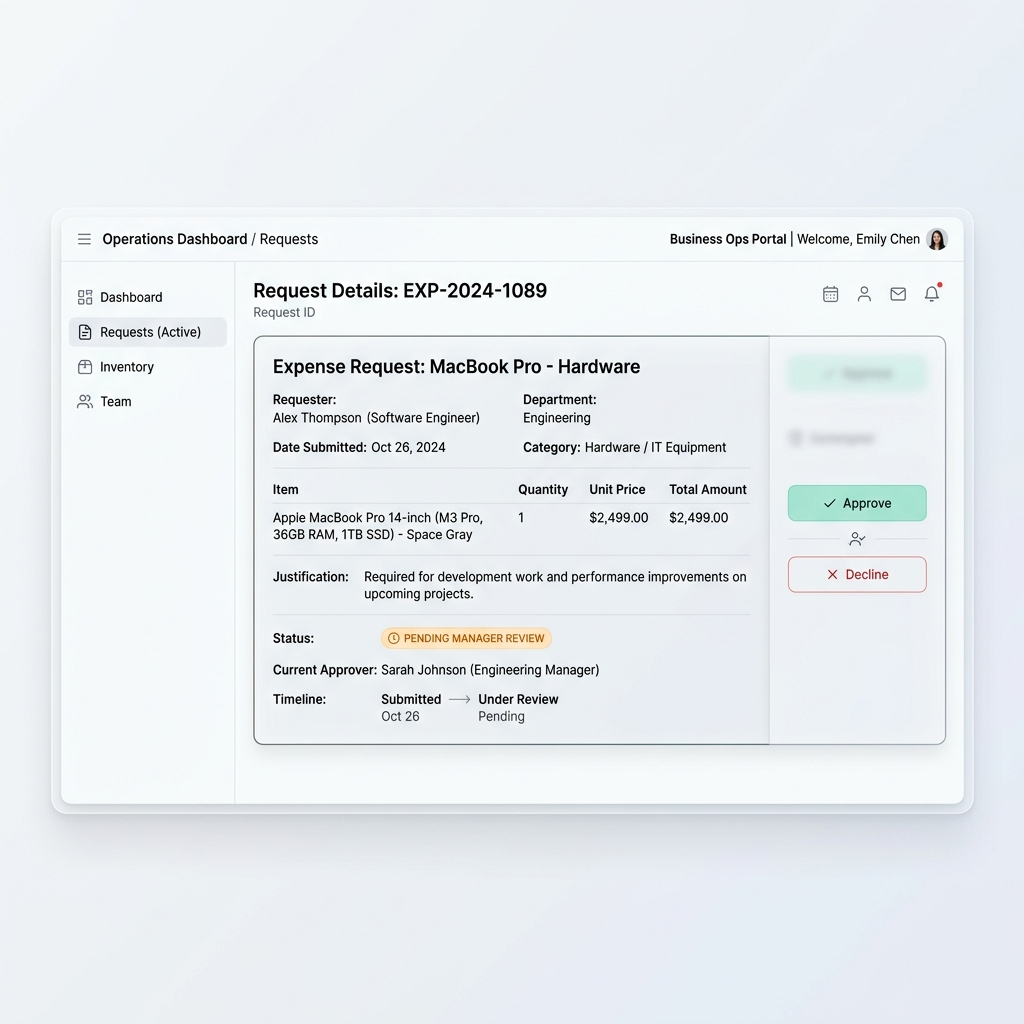
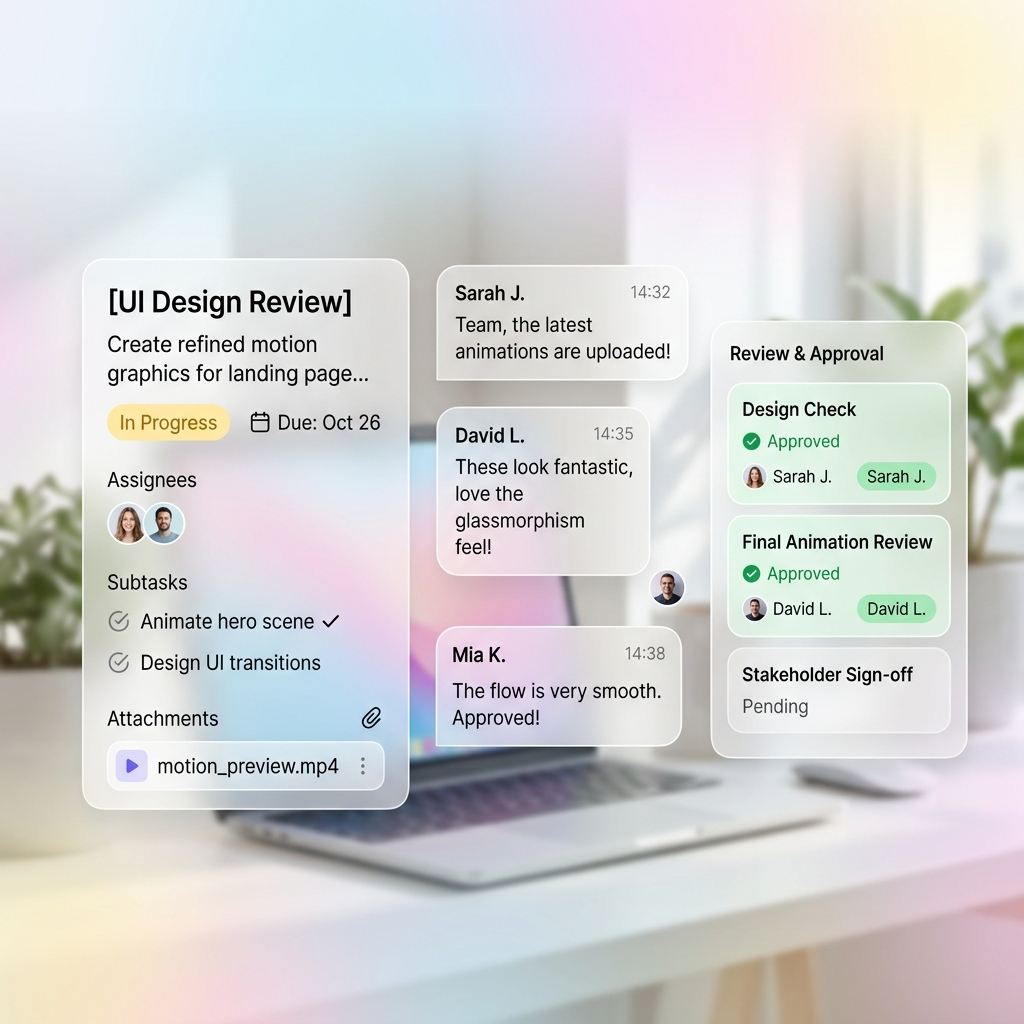
Optimize hero layout, replace mockups with premium glassmorphic mockups, and redesign trust bar to remove clutter

diff --git a/apps/landing-web/src/components/landing/TrustBar.tsx b/apps/landing-web/src/components/landing/TrustBar.tsx
@@ -1,31 +1,30 @@
-import { Rocket, Palette, Truck, Monitor, Factory, Settings } from 'lucide-react';
+import { Zap, Sparkles, Layers } from 'lucide-react';
 import { ScrollReveal } from './ScrollReveal';
 
-const industries = [
-  { icon: Rocket, label: 'Startups' },
-  { icon: Palette, label: 'Agencies' },
-  { icon: Truck, label: 'Logistics' },
-  { icon: Monitor, label: 'IT Services' },
-  { icon: Factory, label: 'Manufacturing' },
-  { icon: Settings, label: 'Operations' },
+const points = [
+  { icon: Zap, label: '5 Minute Setup' },
+  { icon: Sparkles, label: 'Zero Learning Curve' },
+  { icon: Layers, label: 'Fully Integrated' },
 ];
 
 export function TrustBar() {
   return (
-    <section className="px-6 py-16">
+    <section className="px-6 py-12 relative overflow-hidden">
       <ScrollReveal>
-        <div className="max-w-4xl mx-auto text-center">
-          <p className="text-sm text-ink-faint font-medium mb-8">
+        <div className="max-w-3xl mx-auto text-center">
+          <p className="text-sm text-ink-light font-bold uppercase tracking-wider mb-8">
             Built for teams who want clarity, not complexity
           </p>
-          <div className="flex flex-wrap items-center justify-center gap-x-10 gap-y-5">
-            {industries.map(({ icon: Icon, label }) => (
+          <div className="glass rounded-3xl p-6 md:p-8 flex flex-col sm:flex-row items-center justify-around gap-8 shadow-xl shadow-indigo-100/5 border-white/80 hover:scale-[1.005] transition-all duration-300">
+            {points.map(({ icon: Icon, label }) => (
               <div
                 key={label}
-                className="flex items-center gap-2 text-ink-faint hover:text-ink-light transition-colors"
+                className="flex items-center gap-3 text-ink-light hover:text-ink transition-colors"
               >
-                <Icon className="h-4 w-4" strokeWidth={1.5} />
-                <span className="text-sm font-medium">{label}</span>
+                <div className="h-9 w-9 rounded-xl bg-accent-light flex items-center justify-center">
+                  <Icon className="h-5 w-5 text-accent" strokeWidth={2.5} />
+                </div>
+                <span className="text-sm font-bold tracking-tight">{label}</span>
               </div>
             ))}
           </div>

diff --git a/apps/landing-web/src/components/landing/HeroSection.tsx b/apps/landing-web/src/components/landing/HeroSection.tsx
@@ -16,18 +16,7 @@ export function HeroSection() {
       {/* Subtle background glow */}
       <div className="hero-glow absolute inset-0 pointer-events-none" />
 
-      <div className="max-w-5xl mx-auto flex flex-col items-center text-center relative">
-        {/* Badge */}
-        <motion.div
-          initial={{ opacity: 0, y: 8 }}
-          animate={{ opacity: 1, y: 0 }}
-          transition={{ duration: 0.4 }}
-          className="inline-flex items-center gap-2 bg-accent-light text-accent text-xs font-semibold px-4 py-1.5 rounded-full mb-8 glass"
-        >
-          <span className="h-1.5 w-1.5 rounded-full bg-accent" />
-          No chaos. Just operational flow.
-        </motion.div>
-
+      <div className="max-w-5xl mx-auto flex flex-col items-center text-center relative pt-4">
         {/* Headline */}
         <motion.h1
           initial={{ opacity: 0, y: 16 }}
